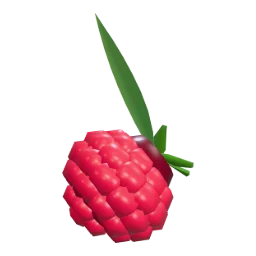
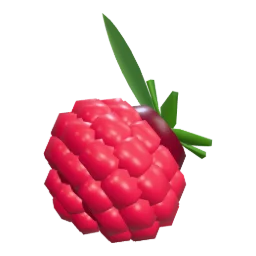
Farm decoration: lighter fence post caps (512 triangles a section), the raspberry's picture drawn again
Claude-Session: https://claude.ai/code/session_01GSFjGHXrugxPciUhGZD2yi

Changed region(s): [[0.1562, 0.0312, 0.8438, 0.9688]]

diff --git a/src/models/decor.ts b/src/models/decor.ts
@@ -116,8 +116,9 @@ function beam(x0: number, x1: number, y: number, z: number, hz: number, hy: numb
   )
 }
 
-/** A soft square pyramid (a lamp's roof, a post's cap): its base half-width `half` at y0, its tip at y1. */
-function pyramid(half: number, y0: number, y1: number, rim = 0.02): Shape {
+/** A soft square pyramid (a lamp's roof, a post's cap): its base half-width `half` at y0, its tip at y1 (`seg` 8 for a
+ *  small one: its corners on the diagonals all the same). */
+function pyramid(half: number, y0: number, y1: number, rim = 0.02, seg = 16): Shape {
   return lathe(
     [
       [0, y0],
@@ -126,7 +127,7 @@ function pyramid(half: number, y0: number, y1: number, rim = 0.02): Shape {
       [half * 0.12, y1 - (y1 - y0) * 0.08],
       [0, y1],
     ],
-    { seg: 16, steps: 1, shape: (a) => squircle(a, 6) },
+    { seg, steps: 1, shape: (a) => squircle(a, 6) },
   )
 }
 
@@ -259,7 +260,7 @@ function lantern(): Structure<'iron' | 'glass'> {
 export const SECTION_HALF = 1
 
 function fence(): Structure<'paint'> {
-  const post = (x: number) => merge(slab(0.045, 0.045, -0.02, 0.97, 6, 8).place([x, 0, 0]), pyramid(0.062, 0.955, 1.045, 0.018).place([x, 0, 0]))
+  const post = (x: number) => merge(slab(0.045, 0.045, -0.02, 0.97, 6, 8).place([x, 0, 0]), pyramid(0.062, 0.955, 1.045, 0.018, 8).place([x, 0, 0]))
   const rails = [0.26, 0.66].map((y) => beam(-SECTION_HALF, SECTION_HALF, y, -0.02, 0.012, 0.035))
   // nine pickets, pointed, nailed on the front of the rails
   const pickets: Shape[] = []
